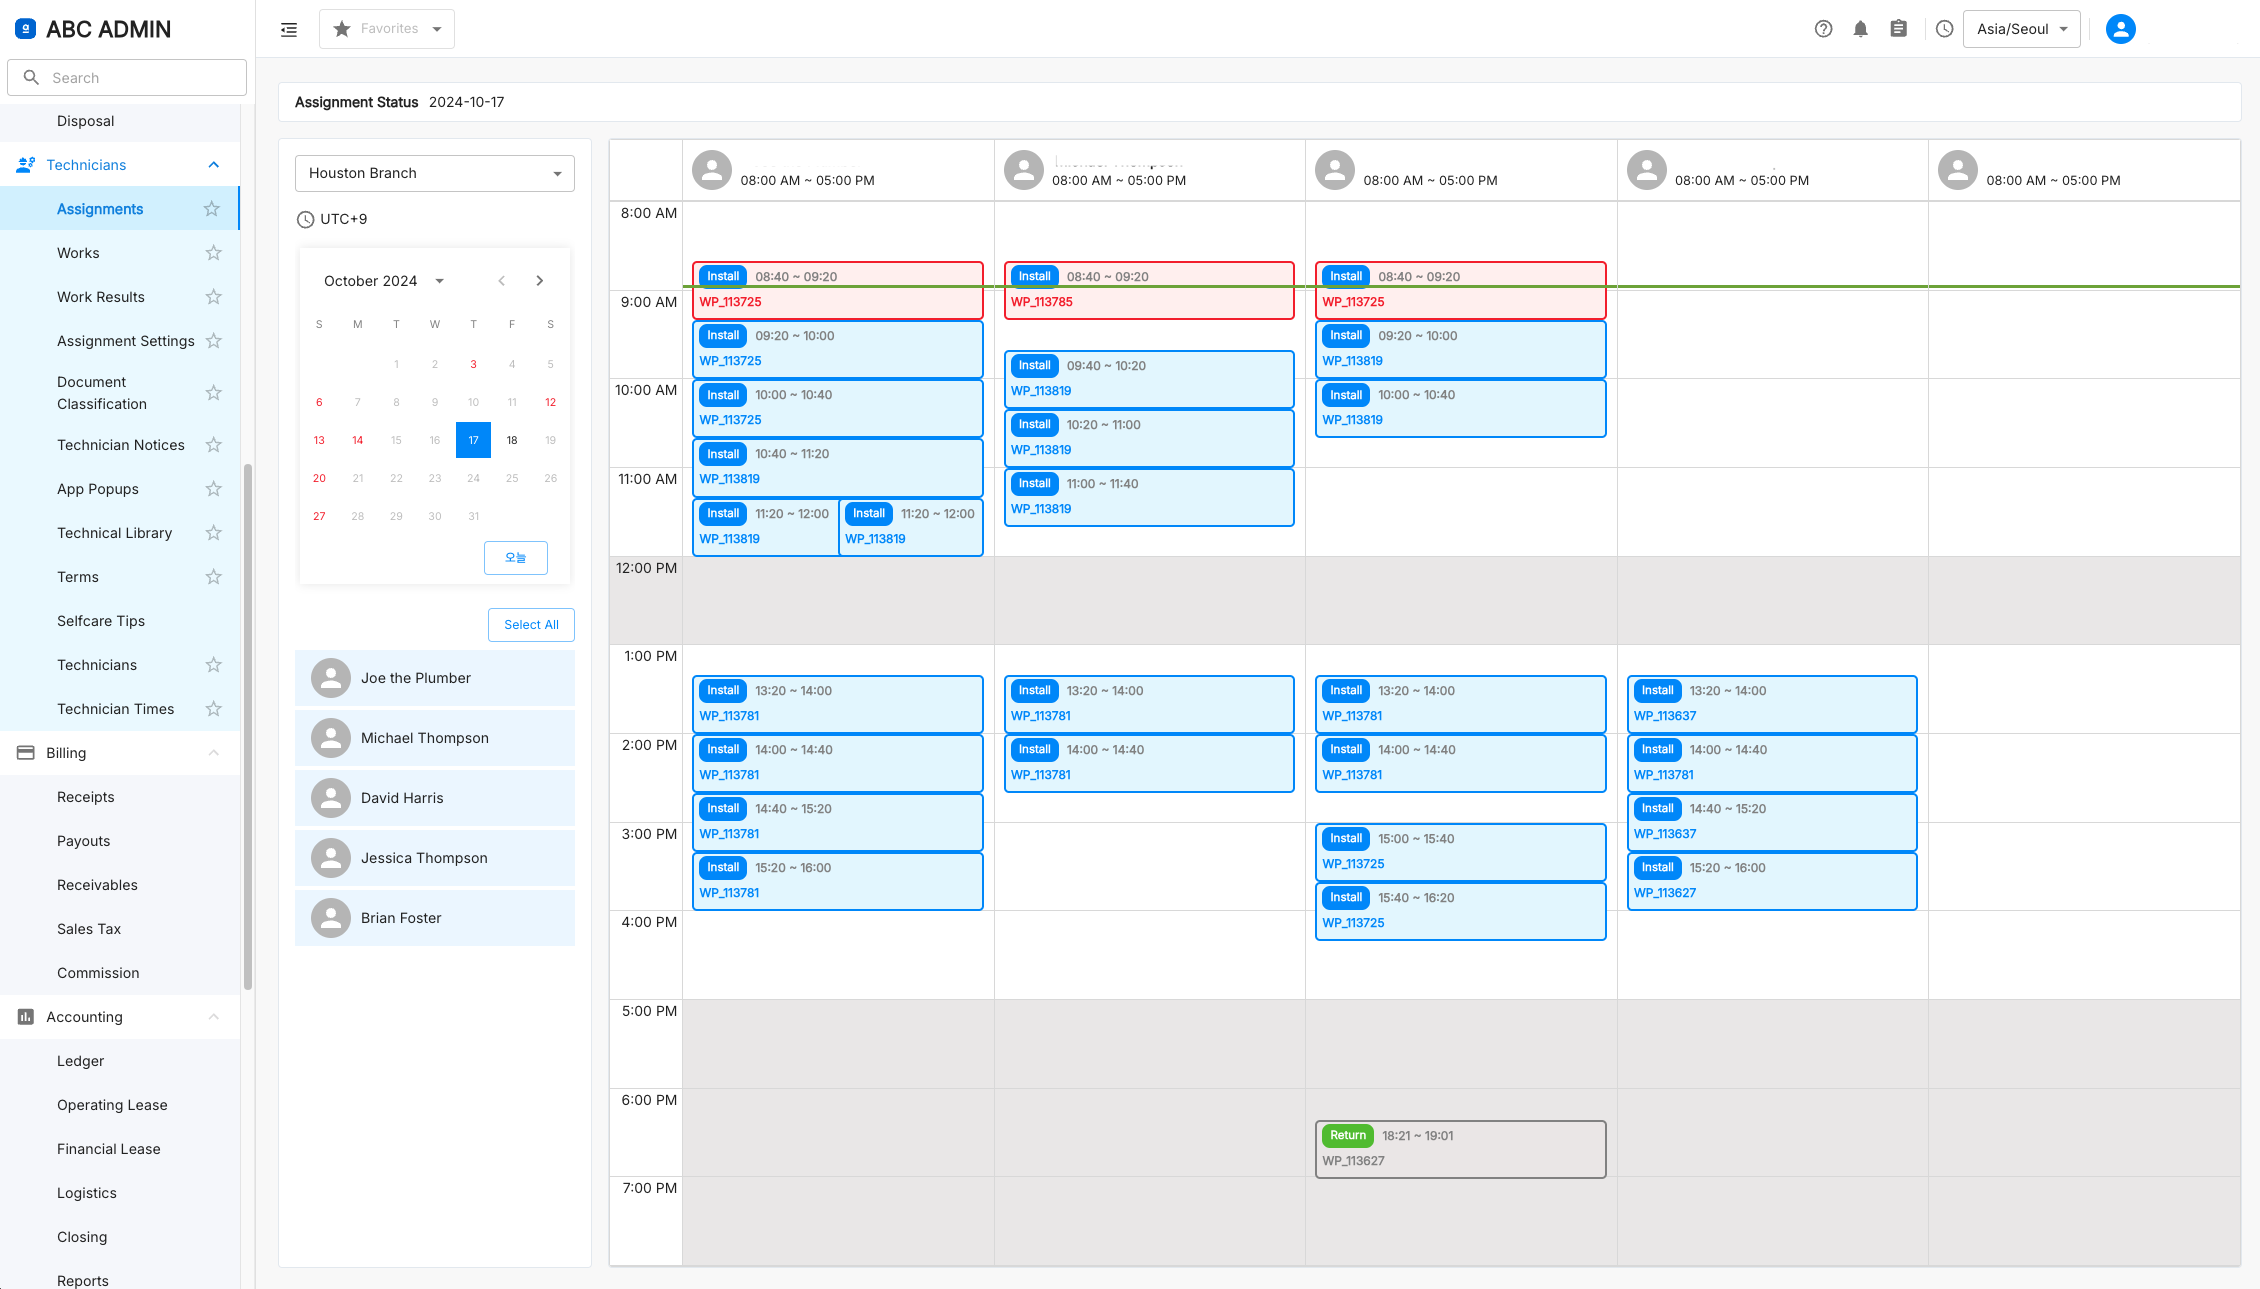
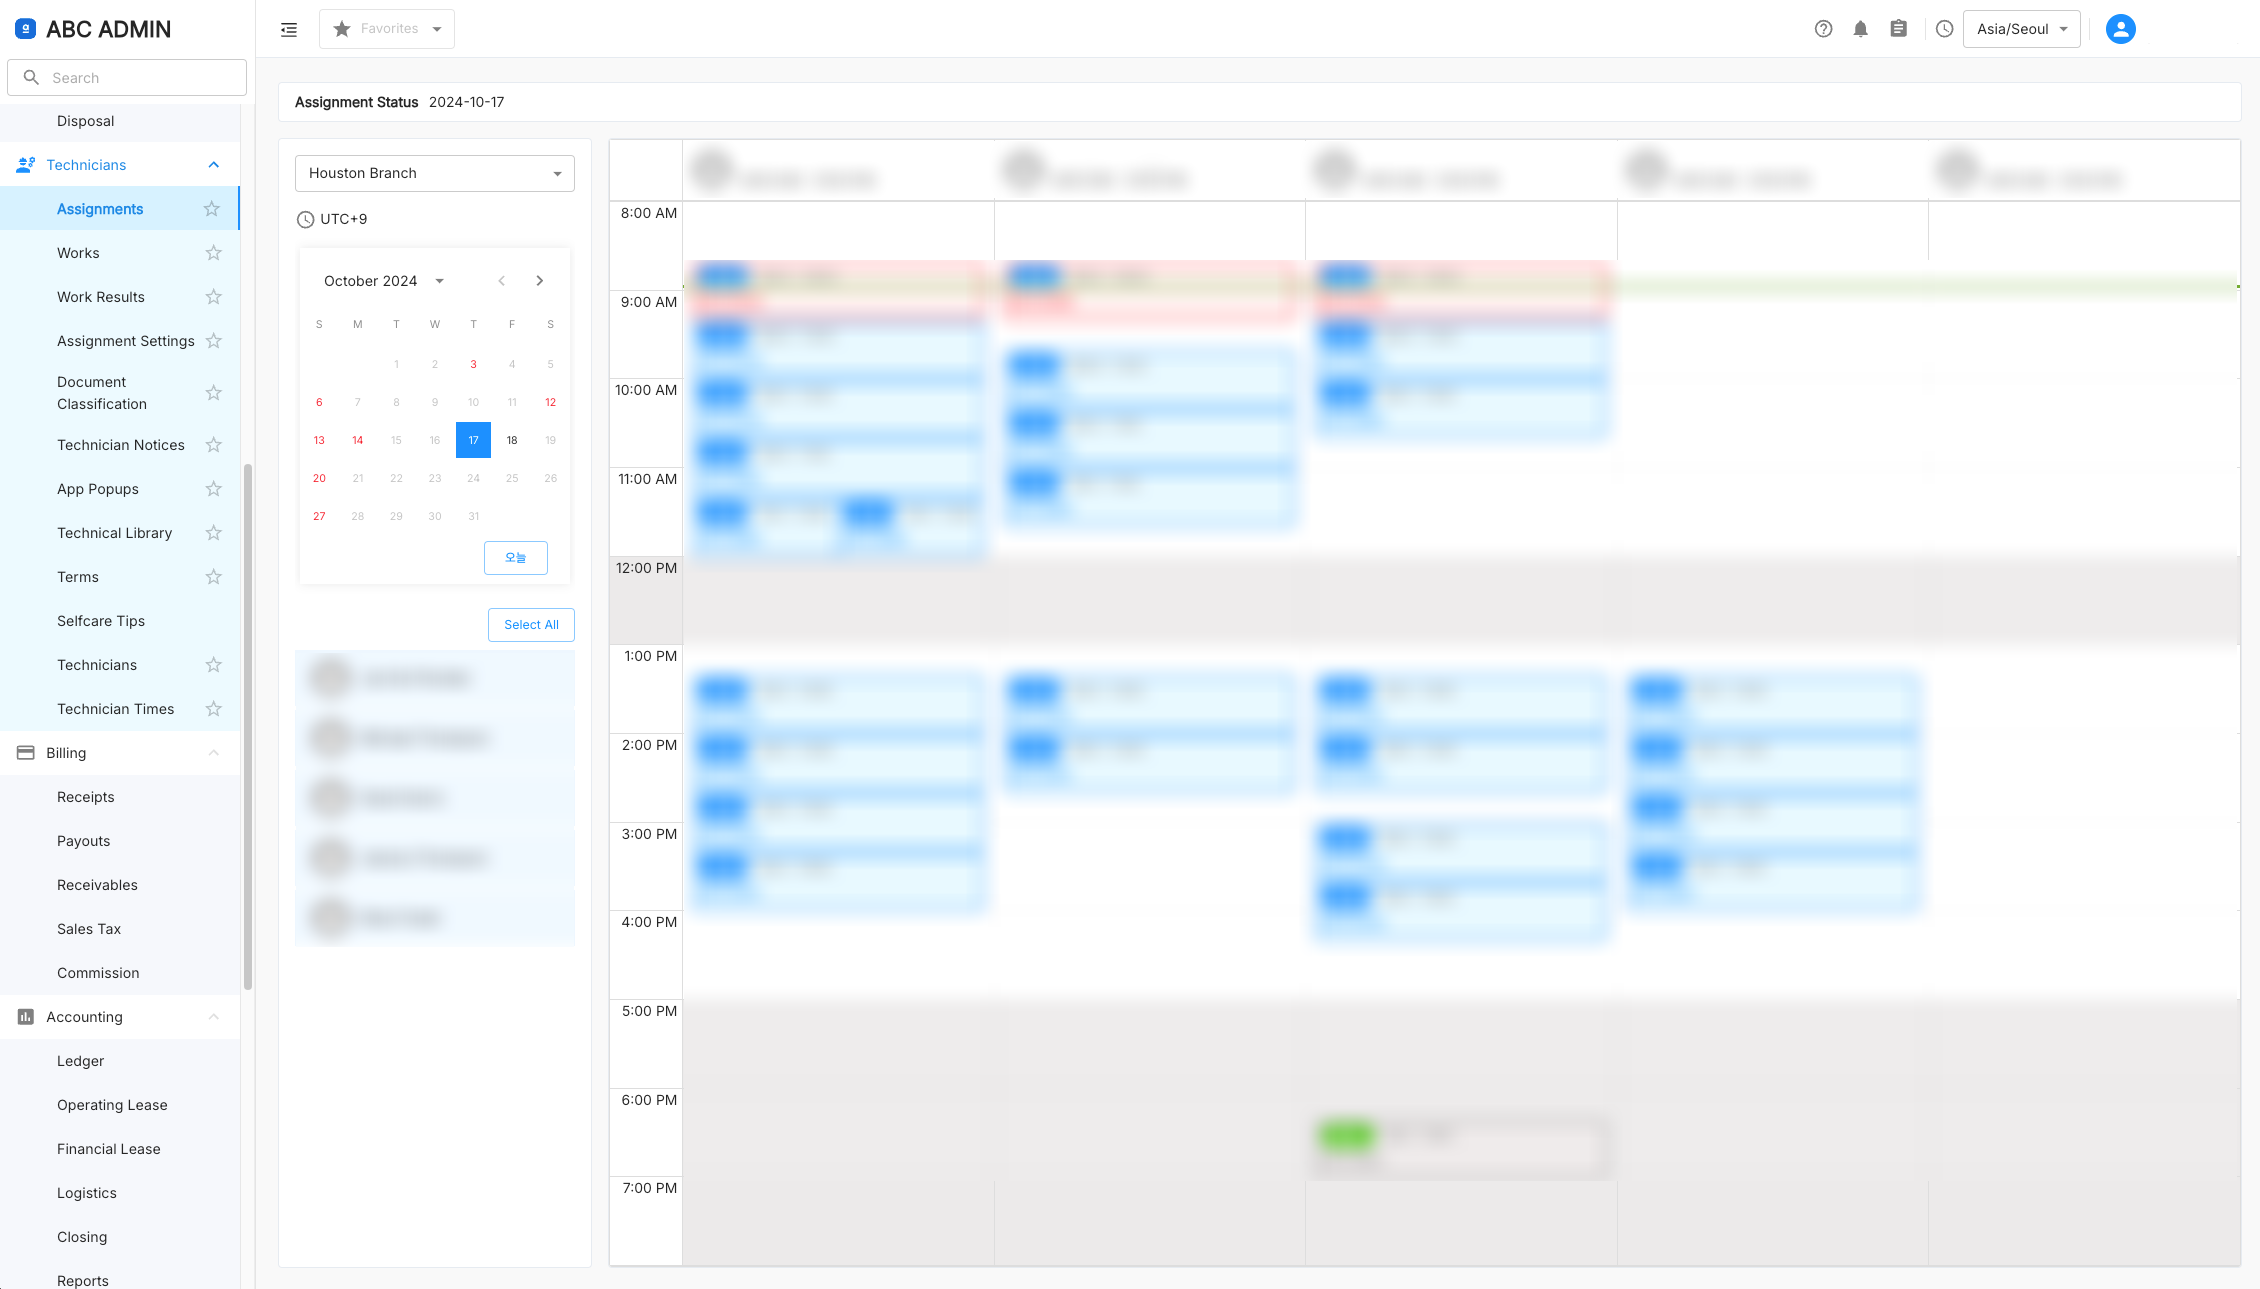
fix(portfolio): ABC Admin 스크린샷의 내부 정보 블러 처리와 일부 제거
- 주문목록: 주문번호, 채널 주문번호, 고객명·이메일·전화 영역 블러 처리
- 배정현황: 작업자 이름과 작업번호가 있는 일정 영역 블러 처리
- 역할 ID와 권한 구조가 화면 전체인 접근제어, 지표가 모두 0%이고 내부 코드값이 보이는 작업현황 이미지는 갤러리와 폴더에서 제거
- 검증: pnpm --filter portfolio test 34개 통과, 상세 갤러리 7장 렌더링 확인

diff --git a/apps/portfolio/src/content/projects.ts b/apps/portfolio/src/content/projects.ts
@@ -180,19 +180,11 @@ export const projects: Project[] = [
         caption: "주문 목록 — 기간·상태·유형 조건 검색과 주문 상세 진입",
       },
       {
-        file: "abc_admin_작업현황.png",
-        caption: "작업 모니터링 — 지점별 실시간 처리율을 지도로 확인",
-      },
-      {
         file: "abc_admin_작업_배정현황.png",
         caption: "테크니션 배정 현황 — react-big-calendar 기반 일정·배정 화면",
       },
       { file: "abc_admin_창고이동.png", caption: "창고 이동 관리" },
       { file: "abc_admin_게시판.png", caption: "게시판" },
-      {
-        file: "abc_admin_시스템_접근제어.png",
-        caption: "시스템 접근 제어 — 메뉴별 권한 관리",
-      },
     ],
     headline: {
       value: "67% 단축",
